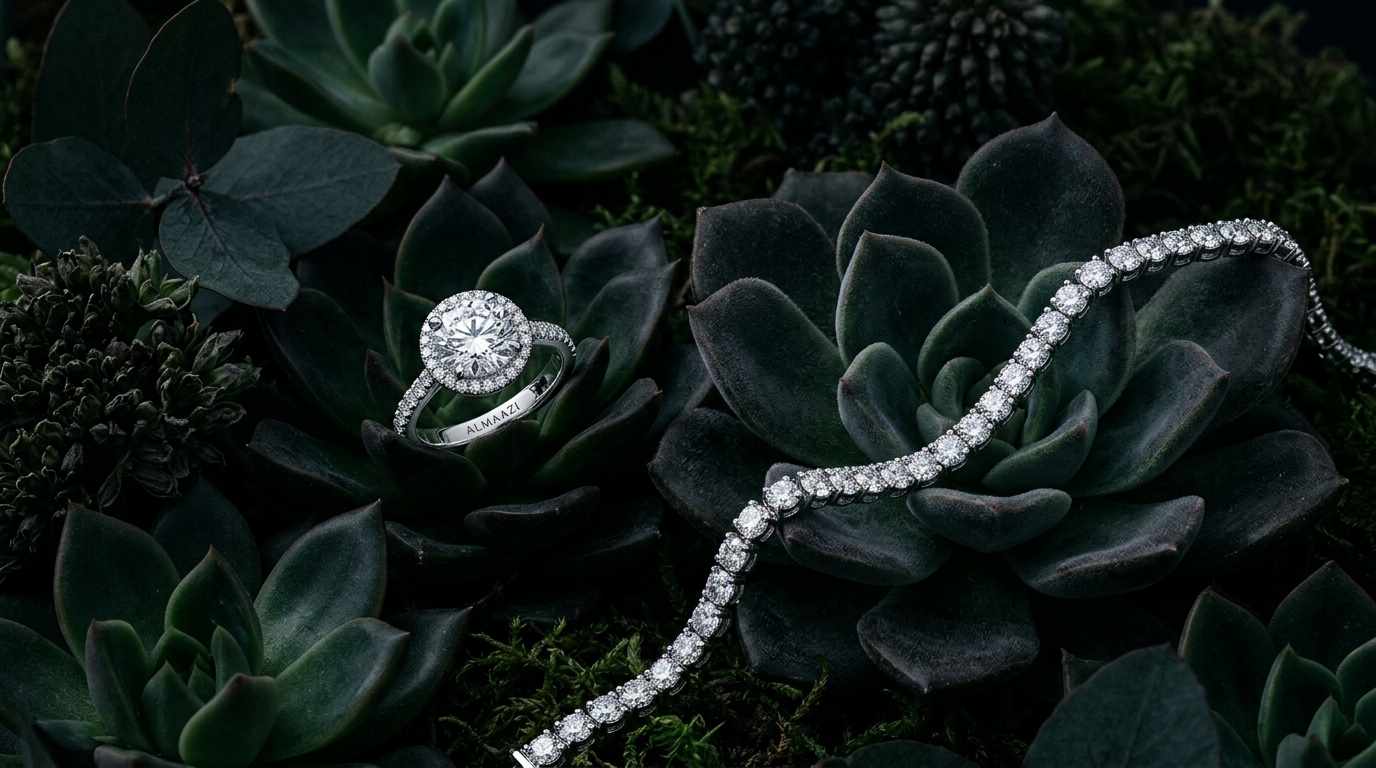
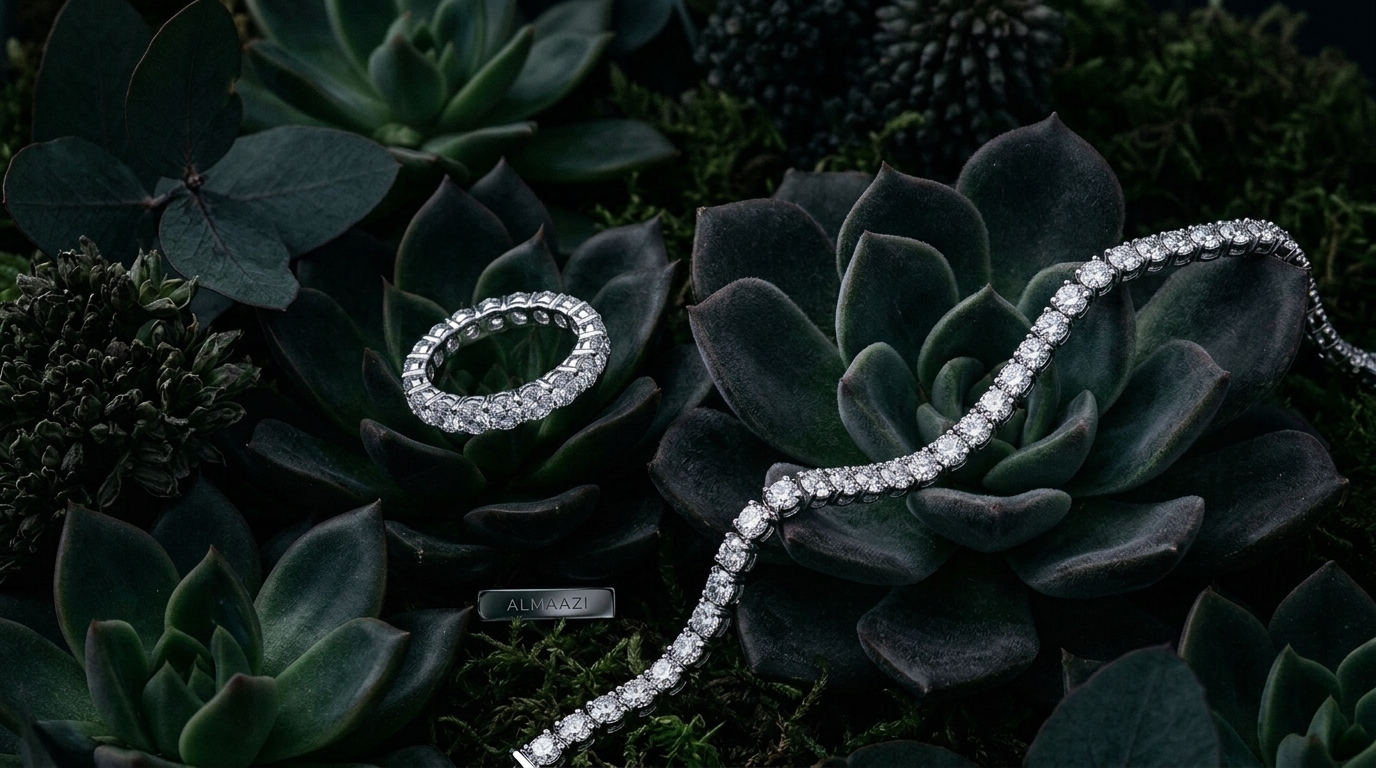
Replace halo ring with matching diamond tennis eternity ring in hero image

diff --git a/index.html b/index.html
@@ -223,8 +223,8 @@
       <!-- High-res Jewellery Background Image -->
       <div class="min-h-[460px] sm:min-h-0 aspect-[3/4] sm:aspect-[16/9] lg:aspect-[21/9] w-full">
         <img 
-          src="assets/images/hero-dark-flora.jpg?v=3.5" 
-          alt="Almaazi fine jewellery - signature diamond ring and tennis bracelet" 
+          src="assets/images/hero-dark-flora.jpg?v=4.0" 
+          alt="Almaazi fine jewellery - signature tennis eternity ring and tennis bracelet" 
           class="h-full w-full object-cover object-center"
         />
       </div>
